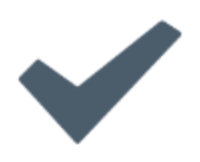
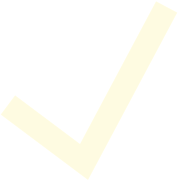
further styling

diff --git a/src/items.js b/src/items.js
@@ -835,30 +835,38 @@ export class InventoryScreen extends React.Component {
           this.state.niceModal && (
             <Modal transparent={true} onRequestClose={() => this.setState({niceModal: false})}>
               <TouchableWithoutFeedback onPress={() => this.setState({niceModal: false})}>
-                <View style={{
-                  flex: 1,
-                  backgroundColor: 'rgba(0,0,0,0.5)',
-                  alignItems: 'center',
-                  justifyContent: 'center',
-                }}>
                   <View style={{
-                    backgroundColor: 'white',
-                    padding: 20,
+                    flex: 1,
+                    backgroundColor: 'rgba(0,0,0,0.5)',
                     alignItems: 'center',
+                    justifyContent: 'center',
                   }}>
-                    <Image source={require('../web/assets/img/icon-nice-check.png')} style={{
-                      margin: 10,
-                      width: 200 * 0.5,
-                      height: 162 * 0.5,
-                    }} />
-                    <Text style={{
-                      margin: 10,
-                      fontWeight: 'bold',
-                    }}>
-                      Nice!
-                    </Text>
+                    <ImageBackground
+                      source={require('../web/assets/img/card-bg.png')}
+                      style={{
+                        padding: 10,
+                        alignItems: 'center',
+                      }}
+                      imageStyle={{
+                        resizeMode: 'contain',
+                      }}
+                      >
+                      <Image source={require('../web/assets/img/icon-nice-check.png')} style={{
+                        margin: 10,
+                        width: 180 * 0.5,
+                        height: 182 * 0.5,
+                      }} />
+                      <Text style={{
+                        margin: 10,
+                        fontSize: 18,
+                        fontWeight: 'bold',
+                        fontFamily: 'League Spartan',
+                        color: 'rgb(254,251,225)',
+                      }}>
+                        Nice!
+                      </Text>
+                      </ImageBackground>
                   </View>
-                </View>
               </TouchableWithoutFeedback>
             </Modal>
           )

diff --git a/src/stemports-picker.js b/src/stemports-picker.js
@@ -1360,7 +1360,7 @@ export class StemportsPicker extends React.Component {
                           // TODO on Android this link should look different,
                           // see https://stackoverflow.com/a/48006762
                         }>
-                          <Text style={{color: 'rgb(101,88,245)', margin: 5}}>
+                          <Text style={{color: 'rgb(100,112,51)', margin: 5}}>
                             Map it
                           </Text>
                         </TouchableOpacity>
@@ -1541,7 +1541,7 @@ export class GuideLine extends React.Component {
             {
               this.props.button ? (
                 <TouchableOpacity onPress={this.props.button.onPress} style={{
-                  backgroundColor: 'rgb(101,88,245)',
+                  backgroundColor: 'rgb(100,112,51)',
                   padding: 5,
                   borderRadius: 5,
                   marginTop: 10,
@@ -1727,7 +1727,7 @@ class GameQuestList extends React.Component {
                       <TouchableOpacity onPress={() =>
                         obj.offline && this.props.onSelect(this.props.game, quest)
                       } style={{
-                        backgroundColor: 'rgb(101,88,245)',
+                        backgroundColor: 'rgb(100,112,51)',
                         margin: 5,
                         paddingTop: 5,
                         paddingBottom: 5,

diff --git a/src/quests.js b/src/quests.js
@@ -445,14 +445,14 @@ export const TaskComplete = (props) => {
         alignItems: 'center',
         justifyContent: 'center',
       }}>
-        <Text style={{fontSize: 30}}>Task Complete!</Text>
+        <Text style={{fontSize: 30, fontFamily: 'LeagueSpartan-Bold'}}>Task Complete!</Text>
       </View>
       <View style={{
         padding: 30,
         alignItems: 'center',
       }}>
         <TouchableOpacity onPress={props.onClose} style={{
-          backgroundColor: 'rgb(98,97,241)',
+          backgroundColor: 'rgb(100,112,51)',
           padding: 10,
           borderRadius: 4,
         }}>
